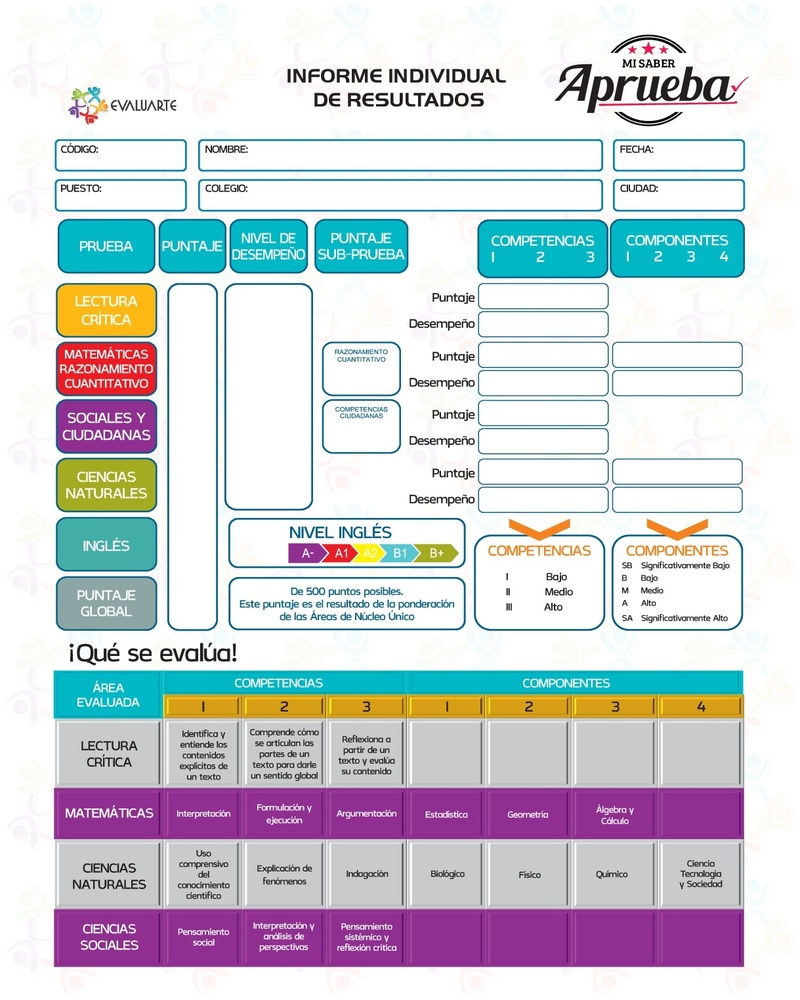
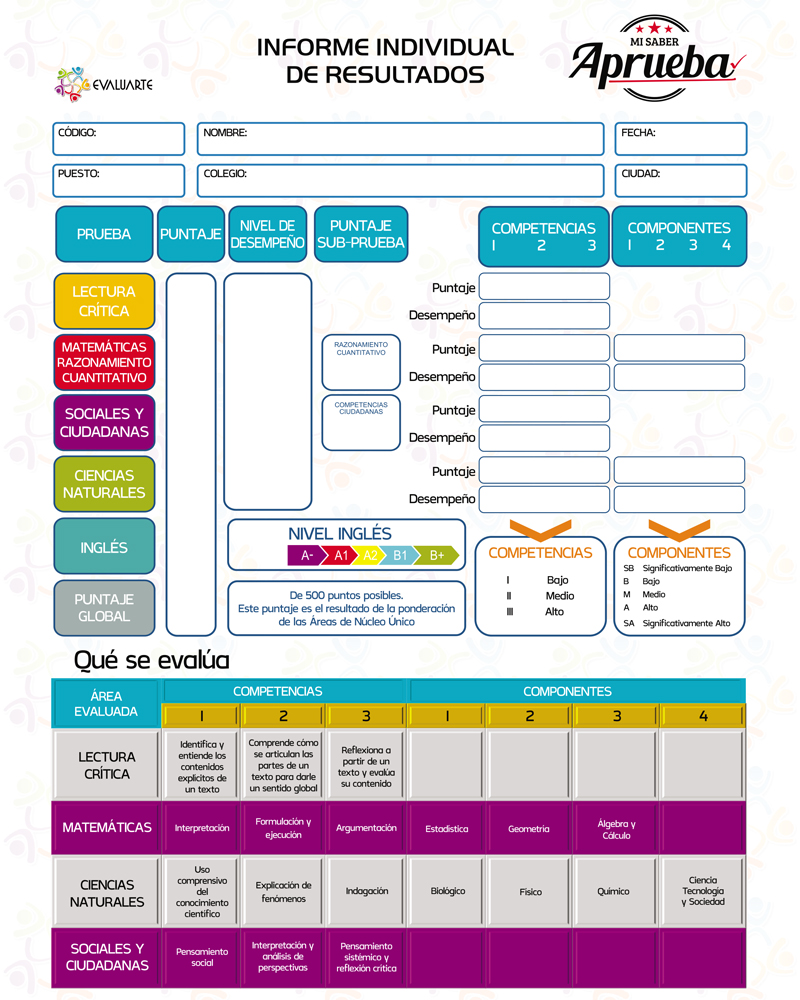
Actualiza fondo mi saber aprueba

diff --git a/resources/views/informes/generar-misaber-aprueba.blade.php b/resources/views/informes/generar-misaber-aprueba.blade.php
@@ -7,24 +7,24 @@
         <div style="text-align: center; font: 80%; font-family: "Homer Simpson", cursive">
             <img src="imagenes/misaberaprueba.jpg" />
             <!-- Datos del personales del estudiante -->
-            <div style="position: absolute;top: 150px;left: 0;width: 27%;">
+            <div style="position: absolute;top: 138px;left: 0;width: 27%;">
                 <span>{{ $informar->codigo }}<span>&nbsp;</span>
             </div>
 
-           <div style="position: absolute;top: 191px;left: 0;width: 27%;">
+           <div style="position: absolute;top: 180px;left: 0;width: 27%;">
                 <span>{{ $informar->puesto }}<span>&nbsp;</span>
             </div>
 
-            <div style="position: absolute;top: 150px;left: 0;width: 92%;">
+            <div style="position: absolute;top: 138px;left: 0;width: 92%;">
                 <span>{{ $informar->NombreEstudiante }}<span>&nbsp;</span>
             </div>
-            <div style="position: absolute;top: 150px;left: 0;width: 183%;">
+            <div style="position: absolute;top: 138px;left: 0;width: 183%;">
                 <span>{{ $informar->FechaAplico }}<span>&nbsp;</span>
             </div>
-            <div style="position: absolute;top: 191px;left: 0;width: 86%;">
+            <div style="position: absolute;top: 180px;left: 0;width: 86%;">
                 <span>{{ $informar->colegio }}<span>&nbsp;</span>
             </div>
-            <div style="position: absolute;top: 191px;left: 0;width: 177%;">
+            <div style="position: absolute;top: 180px;left: 0;width: 177%;">
                 <span>{{ $informar->ciudad }}<span>&nbsp;</span>
             </div>
             <!-- Datos PUNTAJE materias -->
@@ -121,17 +121,17 @@
 
 
             <!-- DATOS COMPETENCIAS -->
-            <div style="position: absolute;top: 287px;left: 0;width: 128%;">
+            <div style="position: absolute;top: 285px;left: 0;width: 128%;">
                 <span>{{ round($informar->Mat2Competencia1, 2) }}<span>&nbsp;</span>
             </div>
-            <div style="position: absolute;top: 287px;left: 0;width: 140%;">
+            <div style="position: absolute;top: 285px;left: 0;width: 140%;">
                 <span>{{ round($informar->Mat2Competencia2, 2) }}<span>&nbsp;</span>
             </div>
-            <div style="position: absolute;top: 287px;left: 0;width: 153%;">
+            <div style="position: absolute;top: 285px;left: 0;width: 153%;">
                 <span>{{ round($informar->Mat2Competencia3, 2) }}<span>&nbsp;</span>
             </div>
 
-            <div style="position: absolute;top: 317px;left: 0;width: 128%;">
+            <div style="position: absolute;top: 315px;left: 0;width: 128%;">
                 <span>
                     @if( str_replace( ',', '.',$informar->Mat2Competencia1) >=0 && str_replace( ',', '.',$informar->Mat2Competencia1) <= 3)
                         I 
@@ -142,7 +142,7 @@
                     @endif 
                     <span>&nbsp;</span>
             </div>
-            <div style="position: absolute;top: 317px;left: 0;width: 140%;">
+            <div style="position: absolute;top: 315px;left: 0;width: 140%;">
                 <span>
                     @if( str_replace( ',', '.',$informar->Mat2Competencia2) >=0 && str_replace( ',', '.',$informar->Mat2Competencia2) <= 3)
                         I 
@@ -153,7 +153,7 @@
                     @endif 
                 <span>&nbsp;</span>
             </div>
-            <div style="position: absolute;top: 317px;left: 0;width: 153%;">
+            <div style="position: absolute;top: 315px;left: 0;width: 153%;">
                 <span>
                     @if( str_replace( ',', '.',$informar->Mat2Competencia3) >=0 && str_replace( ',', '.',$informar->Mat2Competencia3) <= 3)
                         I 
@@ -165,17 +165,17 @@
                 <span>&nbsp;</span>
             </div>
 
-            <div style="position: absolute;top: 347px;left: 0;width: 128%;">
+            <div style="position: absolute;top: 345px;left: 0;width: 128%;">
                 <span>{{ round($informar->Mat1Competencia1, 2) }}<span>&nbsp;</span>
             </div>
-            <div style="position: absolute;top: 347px;left: 0;width: 140%;">
+            <div style="position: absolute;top: 345px;left: 0;width: 140%;">
                 <span>{{ round($informar->Mat1Competencia2, 2) }}<span>&nbsp;</span>
             </div>
-            <div style="position: absolute;top: 347px;left: 0;width: 153%;">
+            <div style="position: absolute;top: 345px;left: 0;width: 153%;">
                 <span>{{ round($informar->Mat1Competencia3, 2) }}<span>&nbsp;</span>
             </div>
 
-            <div style="position: absolute;top: 377px;left: 0;width: 128%;">
+            <div style="position: absolute;top: 375px;left: 0;width: 128%;">
                 <span>
                     @if( str_replace( ',', '.',$informar->Mat1Competencia1) >=0 && str_replace( ',', '.',$informar->Mat1Competencia1) <= 3)
                         I 
@@ -186,7 +186,7 @@
                     @endif 
                 <span>&nbsp;</span>
             </div>
-            <div style="position: absolute;top: 377px;left: 0;width: 140%;">
+            <div style="position: absolute;top: 375px;left: 0;width: 140%;">
                 <span>
                     @if( str_replace( ',', '.',$informar->Mat1Competencia2) >=0 && str_replace( ',', '.',$informar->Mat1Competencia2) <= 3)
                         I 
@@ -197,7 +197,7 @@
                     @endif 
                 <span>&nbsp;</span>
             </div>
-            <div style="position: absolute;top: 377px;left: 0;width: 153%;">
+            <div style="position: absolute;top: 375px;left: 0;width: 153%;">
                 <span>
                     @if( str_replace( ',', '.',$informar->Mat1Competencia3) >=0 && str_replace( ',', '.',$informar->Mat1Competencia3) <= 3)
                         I 
@@ -211,17 +211,17 @@
 
             <!-- Competencia Materia 3  -->
 
-            <div style="position: absolute;top: 407px;left: 0;width: 128%;">
+            <div style="position: absolute;top: 405px;left: 0;width: 128%;">
                 <span>{{ round($informar->Mat3Competencia1, 2) }}<span>&nbsp;</span>
             </div>
-            <div style="position: absolute;top: 407px;left: 0;width: 140%;">
+            <div style="position: absolute;top: 405px;left: 0;width: 140%;">
                 <span>{{ round($informar->Mat3Competencia2, 2) }}<span>&nbsp;</span>
             </div>
-            <div style="position: absolute;top: 407px;left: 0;width: 153%;">
+            <div style="position: absolute;top: 405px;left: 0;width: 153%;">
                 <span>{{ round($informar->Mat3Competencia3, 2) }}<span>&nbsp;</span>
             </div>
 
-            <div style="position: absolute;top: 437px;left: 0;width: 128%;">
+            <div style="position: absolute;top: 435px;left: 0;width: 128%;">
                 <span>
                     @if( str_replace( ',', '.',$informar->Mat3Competencia1) >=0 && str_replace( ',', '.',$informar->Mat3Competencia1) <= 3)
                         I 
@@ -232,7 +232,7 @@
                     @endif
                 <span>&nbsp;</span>
             </div>
-            <div style="position: absolute;top: 437px;left: 0;width: 140%;">
+            <div style="position: absolute;top: 435px;left: 0;width: 140%;">
                 <span>
                     @if( str_replace( ',', '.',$informar->Mat3Competencia2) >=0 && str_replace( ',', '.',$informar->Mat3Competencia2) <= 3)
                         I 
@@ -243,7 +243,7 @@
                     @endif
                 <span>&nbsp;</span>
             </div>
-            <div style="position: absolute;top: 437px;left: 0;width: 153%;">
+            <div style="position: absolute;top: 435px;left: 0;width: 153%;">
                 <span>
                     @if( str_replace( ',', '.',$informar->Mat3Competencia3) >=0 && str_replace( ',', '.',$informar->Mat3Competencia3) <= 3)
                         I 
@@ -255,16 +255,16 @@
                 <span>&nbsp;</span>
             </div>
 
-            <div style="position: absolute;top: 467px;left: 0;width: 128%;">
+            <div style="position: absolute;top: 465px;left: 0;width: 128%;">
                 <span>{{ round($informar->Mat4Competencia1, 2) }}<span>&nbsp;</span>
             </div>
-            <div style="position: absolute;top: 467px;left: 0;width: 140%;">
+            <div style="position: absolute;top: 465px;left: 0;width: 140%;">
                 <span>{{ round($informar->Mat4Competencia2, 2) }}<span>&nbsp;</span>
             </div>
-            <div style="position: absolute;top: 467px;left: 0;width: 153%;">
+            <div style="position: absolute;top: 465px;left: 0;width: 153%;">
                 <span>{{ round($informar->Mat4Competencia3, 2) }}<span>&nbsp;</span>
             </div>
-            <div style="position: absolute;top: 497px;left: 0;width: 128%;">
+            <div style="position: absolute;top: 495px;left: 0;width: 128%;">
                 <span>
                     @if( str_replace( ',', '.',$informar->Mat4Competencia1) >=0 && str_replace( ',', '.',$informar->Mat4Competencia1) <= 3)
                         I 
@@ -275,7 +275,7 @@
                     @endif
                 <span>&nbsp;</span>
             </div>
-            <div style="position: absolute;top: 497px;left: 0;width: 140%;">
+            <div style="position: absolute;top: 495px;left: 0;width: 140%;">
                 <span>
                     @if( str_replace( ',', '.',$informar->Mat4Competencia2) >=0 && str_replace( ',', '.',$informar->Mat4Competencia2) <= 3)
                         I 
@@ -286,7 +286,7 @@
                     @endif
                 <span>&nbsp;</span>
             </div>
-            <div style="position: absolute;top: 497px;left: 0;width: 153%;">
+            <div style="position: absolute;top: 495px;left: 0;width: 153%;">
                 <span>
                     @if( str_replace( ',', '.',$informar->Mat4Competencia3) >=0 && str_replace( ',', '.',$informar->Mat4Competencia3) <= 3)
                         I 
@@ -305,17 +305,17 @@
 
             <!-- DATOS COMPONENTES -->
 
-            <div style="position: absolute;top: 346px;left: 0;width: 166%;">
+            <div style="position: absolute;top: 345px;left: 0;width: 166%;">
                 <span>{{ round($informar->Mat1Componentes1, 2) }}<span>&nbsp;</span>
             </div>
-            <div style="position: absolute;top: 346px;left: 0;width: 176%;">
+            <div style="position: absolute;top: 345px;left: 0;width: 176%;">
                 <span>{{ round($informar->Mat1Componentes2, 2) }}<span>&nbsp;</span>
             </div>
-            <div style="position: absolute;top: 346px;left: 0;width: 184%;">
+            <div style="position: absolute;top: 345px;left: 0;width: 184%;">
                 <span>{{ round($informar->Mat1Componentes3, 2) }}<span>&nbsp;</span>
             </div>
 
-            <div style="position: absolute;top: 376px;left: 0;width: 166%;">
+            <div style="position: absolute;top: 375px;left: 0;width: 166%;">
                 <span>
                     @if( str_replace( ',', '.',$informar->Mat1Componentes1) >=0 && str_replace( ',', '.',$informar->Mat1Componentes1) <= 2)
                         SB 
@@ -333,7 +333,7 @@
 
 
 
-            <div style="position: absolute;top: 376px;left: 0;width: 176%;">
+            <div style="position: absolute;top: 375px;left: 0;width: 176%;">
                 <span>
                     @if( str_replace( ',', '.',$informar->Mat1Componentes2) >=0 && str_replace( ',', '.',$informar->Mat1Componentes2) <= 2)
                         SB 
@@ -348,7 +348,7 @@
                     @endif
                 <span>&nbsp;</span>
             </div>
-            <div style="position: absolute;top: 376px;left: 0;width: 184%;">
+            <div style="position: absolute;top: 375px;left: 0;width: 184%;">
                 <span>
                     @if( str_replace( ',', '.',$informar->Mat1Componentes3) >=0 && str_replace( ',', '.',$informar->Mat1Componentes3) <= 2)
                         SB 
@@ -424,17 +424,17 @@
             -->
 
             
-            <div style="position: absolute;top: 467px;left: 0;width: 166%;">
+            <div style="position: absolute;top: 465px;left: 0;width: 166%;">
                 <span>{{ round($informar->Mat4Componentes1, 2) }}<span>&nbsp;</span>
             </div>
-            <div style="position: absolute;top: 467px;left: 0;width: 176%;">
+            <div style="position: absolute;top: 465px;left: 0;width: 176%;">
                 <span>{{ round($informar->Mat4Componentes2, 2) }}<span>&nbsp;</span>
             </div>
-            <div style="position: absolute;top: 467px;left: 0;width: 184%;">
+            <div style="position: absolute;top: 465px;left: 0;width: 184%;">
                 <span>{{ round($informar->Mat4Componentes3, 2) }}<span>&nbsp;</span>
             </div>
 
-            <div style="position: absolute;top: 497px;left: 0;width: 166%;">
+            <div style="position: absolute;top: 495px;left: 0;width: 166%;">
                 <span>
                     @if( str_replace( ',', '.',$informar->Mat4Componentes1) >=0 && str_replace( ',', '.',$informar->Mat4Componentes1) <= 2)
                         SB 
@@ -449,7 +449,7 @@
                     @endif
                 <span>&nbsp;</span>
             </div>
-            <div style="position: absolute;top: 497px;left: 0;width: 176%;">
+            <div style="position: absolute;top: 495px;left: 0;width: 176%;">
                 <span>
                     @if( str_replace( ',', '.',$informar->Mat4Componentes2) >=0 && str_replace( ',', '.',$informar->Mat4Componentes2) <= 2)
                         SB 
@@ -464,7 +464,7 @@
                     @endif
                 <span>&nbsp;</span>
             </div>
-            <div style="position: absolute;top: 497px;left: 0;width: 184%;">
+            <div style="position: absolute;top: 495px;left: 0;width: 184%;">
                 <span>
                     @if( str_replace( ',', '.',$informar->Mat4Componentes3) >=0 && str_replace( ',', '.',$informar->Mat4Componentes3) <= 2)
                         SB 
